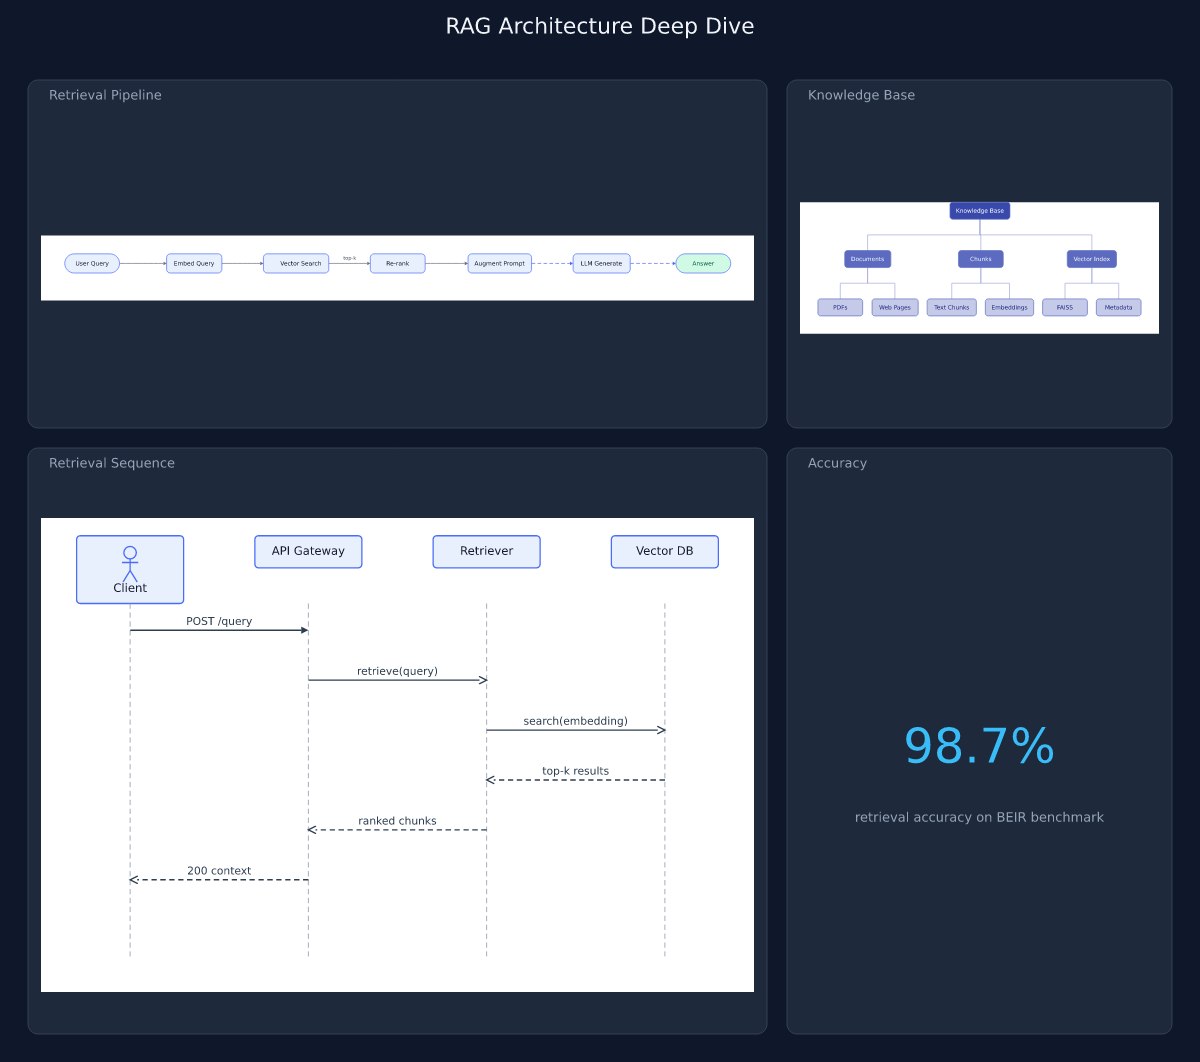
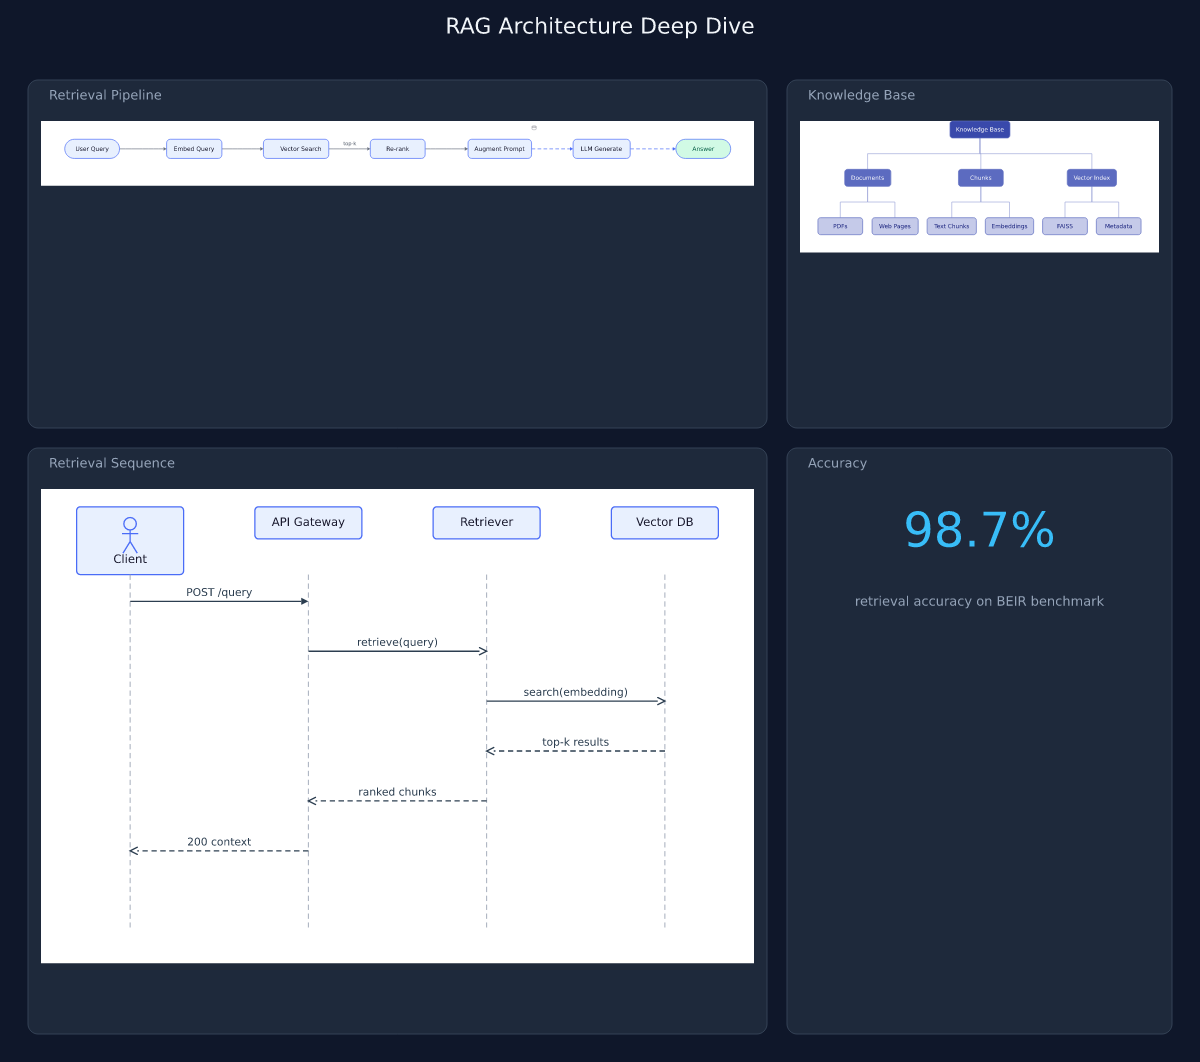
feat(composition): panel content alignment + poster in gallery
Add CompositionTheme cellVAlign ('top'|'center'|'fill', default 'top') and
cellHAlign ('left'|'center') tokens; layout anchors each cell's scaled
sub-scene per the tokens instead of always centering, so short panels in
tall rows anchor content at the top rather than floating in dead space.
Add the poster-rag-architecture card to the gallery index.

Only the poster outputs change; all other goldens byte-identical.

diff --git a/examples/gallery/index.html b/examples/gallery/index.html
@@ -163,13 +163,15 @@
     Twelve timeline IR documents rendered with the <strong>Horizontal layout</strong>
     family, plus four <strong>Sequence Grammar</strong> examples (UML default and ByteByteGo themes),
     one <strong>Flow Grammar</strong> example (RAG pipeline, layered L→R layout),
-    and three <strong>Tree Grammar</strong> examples (default light theme and dark-teal theme — same IR,
-    two themes). Most timeline renders use the <strong>Consulting (Tier-1)</strong> theme, with a
-    feature-rich <strong>Product</strong> showcase. Each example exercises a distinct
-    combination of axis unit, track density, activity statuses, milestones, and edge-case
-    behaviours. Use this contact sheet to bulk-check Phase 1–4 visual output.
+    three <strong>Tree Grammar</strong> examples (default light theme and dark-teal theme — same IR,
+    two themes), and one <strong>Composition Layer</strong> example (multi-panel poster assembling
+    flow, tree, sequence, and stat grammars into a single infographic). Most timeline renders use
+    the <strong>Consulting (Tier-1)</strong> theme, with a feature-rich <strong>Product</strong>
+    showcase. Each example exercises a distinct combination of axis unit, track density, activity
+    statuses, milestones, and edge-case behaviours. Use this contact sheet to bulk-check
+    Phase 1–5 visual output.
   </p>
-  <span class="badge">Phase 1–4 Gallery · Horizontal + Sequence + Flow + Tree</span>
+  <span class="badge">Phase 1–5 Gallery · Horizontal + Sequence + Flow + Tree + Composition</span>
   <div style="margin-top:12px;display:flex;gap:10px;flex-wrap:wrap;">
     <a href="themes.html" style="font-size:13px;font-weight:700;color:#1F497D;text-decoration:none;padding:5px 12px;border:1px solid #c5d5e8;border-radius:3px;background:#f0f5fb;">
       🎨 Theme Showcase → 5 themes × 3 examples
@@ -625,6 +627,32 @@
     <div class="card-footer">
       <a href="tree-document-dark.svg">SVG</a>
       <a href="tree-document.tree.yaml">Source YAML</a>
+    </div>
+  </div>
+
+  <!-- 20. poster-rag-architecture — Composition Layer, multi-panel poster -->
+  <div class="card">
+    <div class="card-header">
+      <div class="card-num">Example 20 · poster-rag-architecture</div>
+      <div class="card-title">RAG Architecture Deep Dive — Composition Layer</div>
+      <div class="card-desc">
+        A multi-panel infographic poster built with the <strong>Composition Layer</strong>:
+        four grammars assembled into a single 2×2 grid canvas.
+        Top-left: <strong>Flow</strong> — 7-node RAG retrieval pipeline.
+        Top-right: <strong>Tree</strong> — knowledge base taxonomy (3 chapters, 6 sections).
+        Bottom-left: <strong>Sequence</strong> — retrieval request/response (4 participants, 6 messages).
+        Bottom-right: <strong>Stat</strong> — 98.7% retrieval accuracy callout.
+        Demonstrates <code>cellVAlign: top</code> and <code>cellHAlign: center</code> alignment
+        tokens that anchor short panels near the top, eliminating floating whitespace in mixed
+        tall/short rows.
+      </div>
+    </div>
+    <div class="card-img">
+      <img src="poster-rag-architecture.png" alt="poster-rag-architecture render">
+    </div>
+    <div class="card-footer">
+      <a href="poster-rag-architecture.svg">SVG</a>
+      <a href="poster-rag-architecture.composition.yaml">Source YAML</a>
     </div>
   </div>
 

diff --git a/packages/core/src/composition/layout.ts b/packages/core/src/composition/layout.ts
@@ -28,7 +28,7 @@
  */
 
 import type { Scene, ScenePrimitive } from '../scene.js';
-import { embedSceneInRect } from '../scene-transform.js';
+import { translateAndScale } from '../scene-transform.js';
 import { measureText } from '../fonts/metrics.js';
 
 import { buildFlowScene }     from '../grammars/flow/index.js';
@@ -472,13 +472,32 @@ export function layoutComposition(
     const embedH = cellH - 2 * chromePad - titleBarH;
 
     if (embedW > 0 && embedH > 0 && pc.subScene.primitives.length > 0) {
-      const embedded = embedSceneInRect(pc.subScene, {
-        x: embedX,
-        y: embedY,
-        width: embedW,
-        height: embedH,
-      });
-      allPrimitives.push(...embedded);
+      const sub = pc.subScene;
+      if (sub.width > 0 && sub.height > 0) {
+        const scaleW = embedW / sub.width;
+        const scaleH = embedH / sub.height;
+        const scale = Math.min(scaleW, scaleH, 1.0);
+        const scaledW = sub.width * scale;
+        const scaledH = sub.height * scale;
+
+        // Horizontal alignment
+        const alignDx =
+          theme.cellHAlign === 'center'
+            ? embedX + (embedW - scaledW) / 2
+            : embedX; // 'left'
+
+        // Vertical alignment
+        const alignDy =
+          theme.cellVAlign === 'top'
+            ? embedY
+            : embedY + (embedH - scaledH) / 2; // 'center' or 'fill'
+
+        allPrimitives.push(
+          ...sub.primitives.map((prim) =>
+            translateAndScale(prim, alignDx, alignDy, scale),
+          ),
+        );
+      }
     }
   }
 

diff --git a/packages/core/src/composition/theme.ts b/packages/core/src/composition/theme.ts
@@ -87,6 +87,27 @@ export interface CompositionTheme {
     color: string;
   };
 
+  // ── Cell content alignment ────────────────────────────────────────────────
+  /**
+   * Vertical alignment of the sub-scene within the available cell embed area.
+   *
+   * - 'top'    : sub-scene is anchored at the top of the embed area; excess
+   *              vertical space accumulates at the bottom.  Best for mixed
+   *              tall/short panels (avoids wide-short diagrams floating in the
+   *              middle of a tall row).
+   * - 'center' : sub-scene is vertically centered in the embed area.
+   * - 'fill'   : treated the same as 'center' (reserved for future stretch mode).
+   */
+  cellVAlign: 'top' | 'center' | 'fill';
+
+  /**
+   * Horizontal alignment of the sub-scene within the available cell embed area.
+   *
+   * - 'center' : sub-scene is horizontally centered (default).
+   * - 'left'   : sub-scene is left-aligned.
+   */
+  cellHAlign: 'left' | 'center';
+
   // ── Text / title cells ────────────────────────────────────────────────────
   /** Font for text cells. */
   textFont: {
@@ -127,6 +148,9 @@ export const defaultCompositionTheme: CompositionTheme = {
 
   statValueFont: { family: 'Inter, sans-serif', size: 48, weight: 700, color: '#38bdf8' },
   statLabelFont: { family: 'Inter, sans-serif', size: 13, weight: 400, color: '#94a3b8' },
+
+  cellVAlign: 'top',
+  cellHAlign: 'center',
 
   textFont: { family: 'Inter, sans-serif', size: 14, weight: 400, color: '#cbd5e1' },
   titleFont: { family: 'Inter, sans-serif', size: 20, weight: 700, color: '#f1f5f9' },